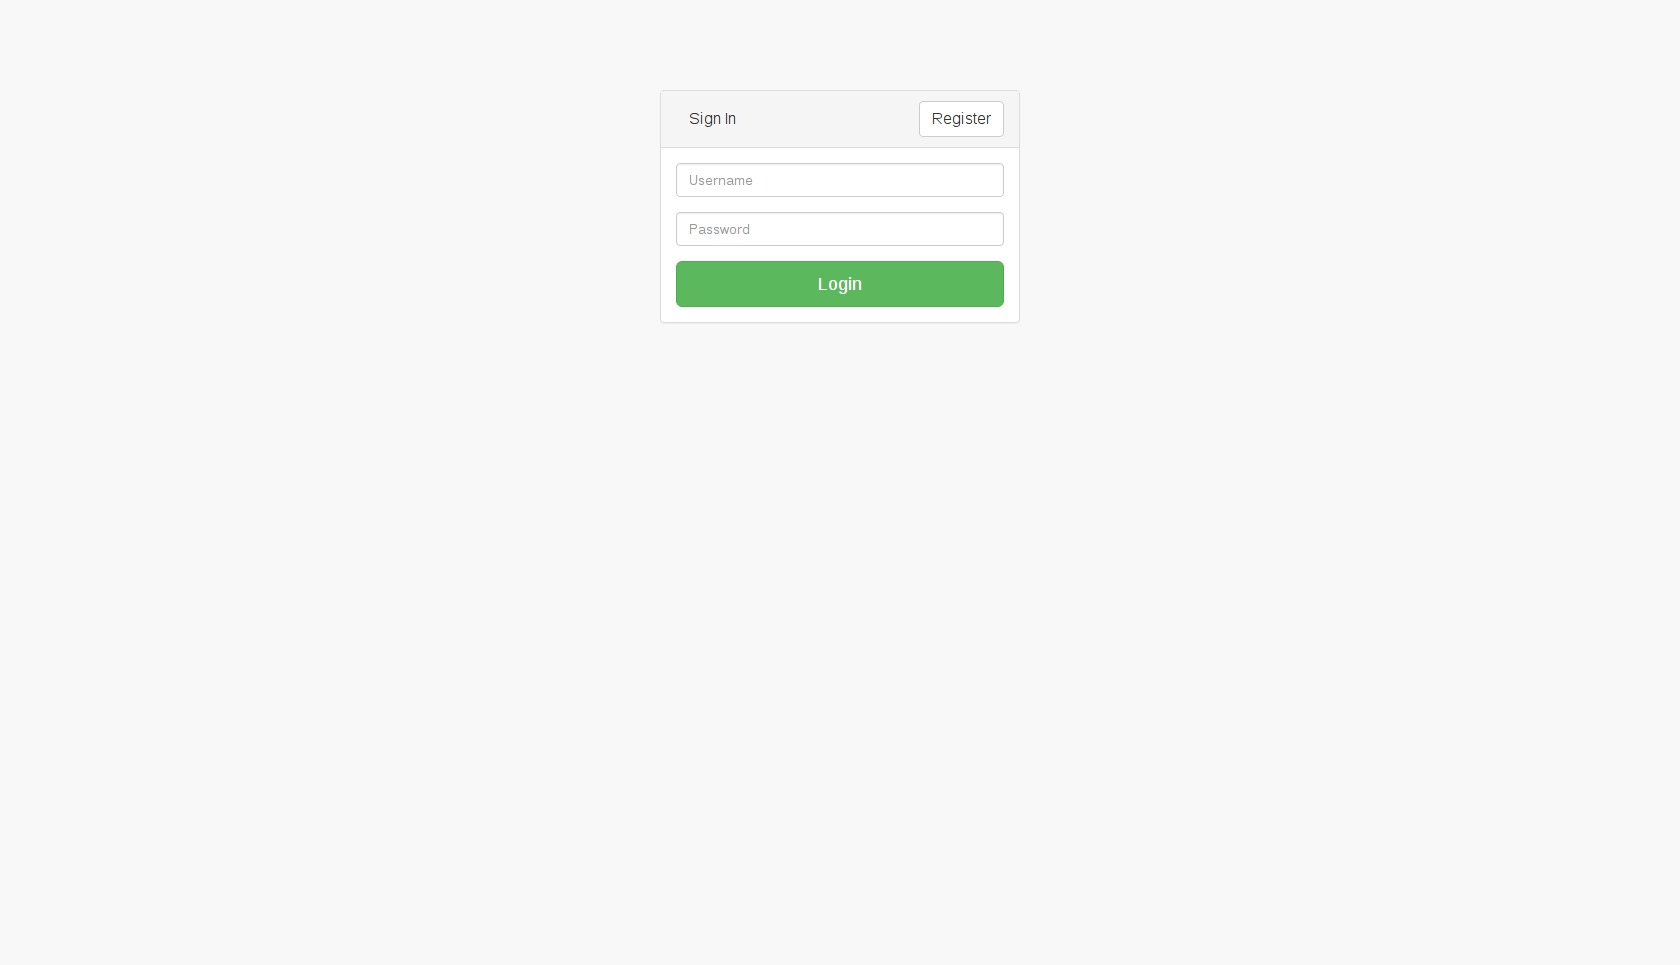
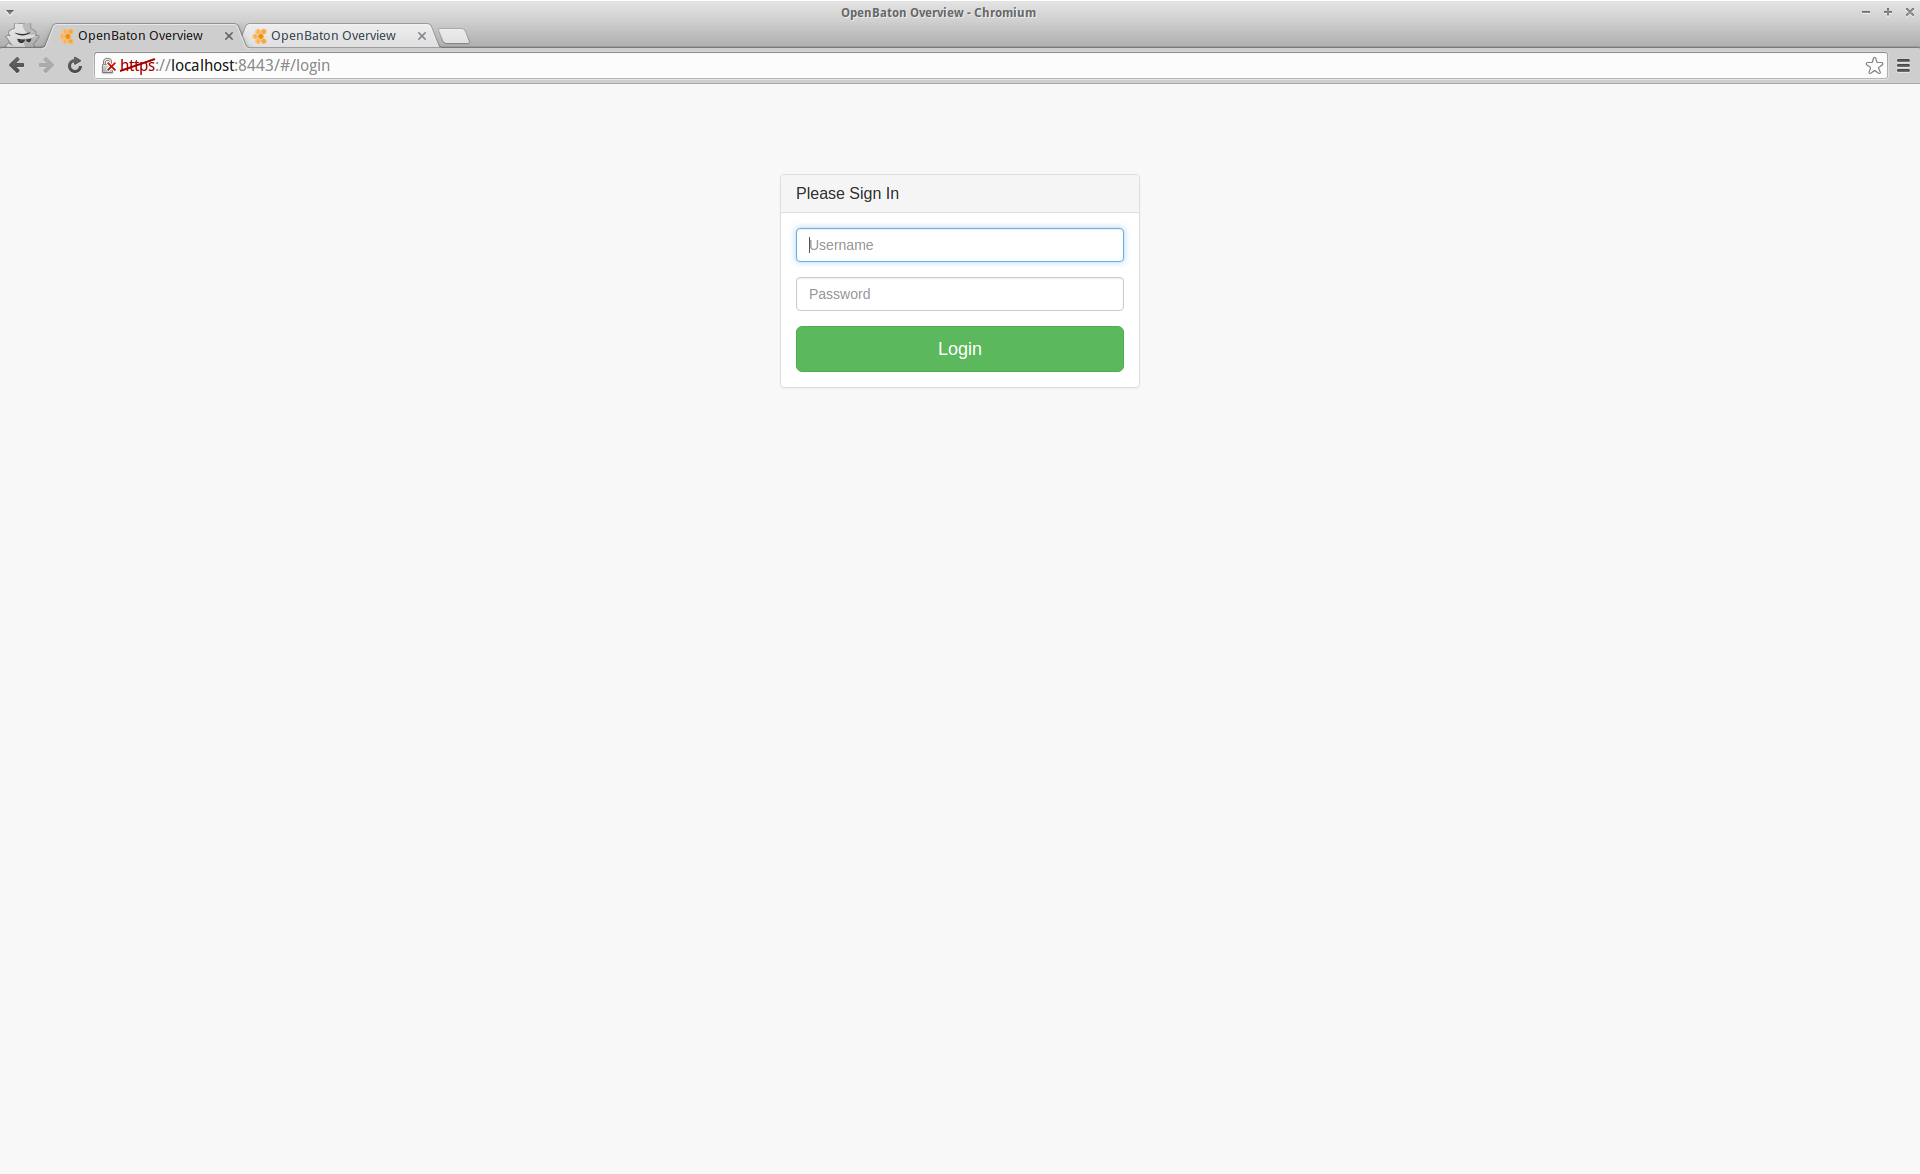
Update documentation

Changed region(s): [[0.0, 0.0, 1.0, 0.1554], [0.4024, 0.1554, 0.619, 0.342]]

diff --git a/docs/security.md b/docs/security.md
@@ -2,12 +2,7 @@
 
 ## Roles and projects
 
-Openbaton's security model consists of different user roles and projects. 
-This security feature can be enabled by setting 
-```properties
-nfvo.security.enabled = true
-``` 
-in the */etc/openbaton/openbaton.properties* file. 
+Openbaton's security model consists of different user roles and projects. Users can get assigned to projects so that multiple selected users can work in the same project environment.
 
 A project is a separate realm in which permitted users can work.  
 Users can be assigned to projects and adopt different roles.  

diff --git a/docs/nfvo-how-to-use-gui.md b/docs/nfvo-how-to-use-gui.md
@@ -208,6 +208,7 @@ This are the information of the Event selected
 [editNSD5]:images/edit-NSD5.png
 [SecurityOverview]:images/nfvo-how-to-use-gui-security-overview.png
 [AddUser]:images/nfvo-how-to-use-gui-add-user.png
+[Login]:images/login.png
 
 [VNFDlistintoNSD]:images/nfvo-how-to-use-gui-VNFD-list-into-NSD.png
 [VNFDlistintoNSD1]:images/nfvo-how-to-use-gui-VNFD-list-into-NSD1.png
